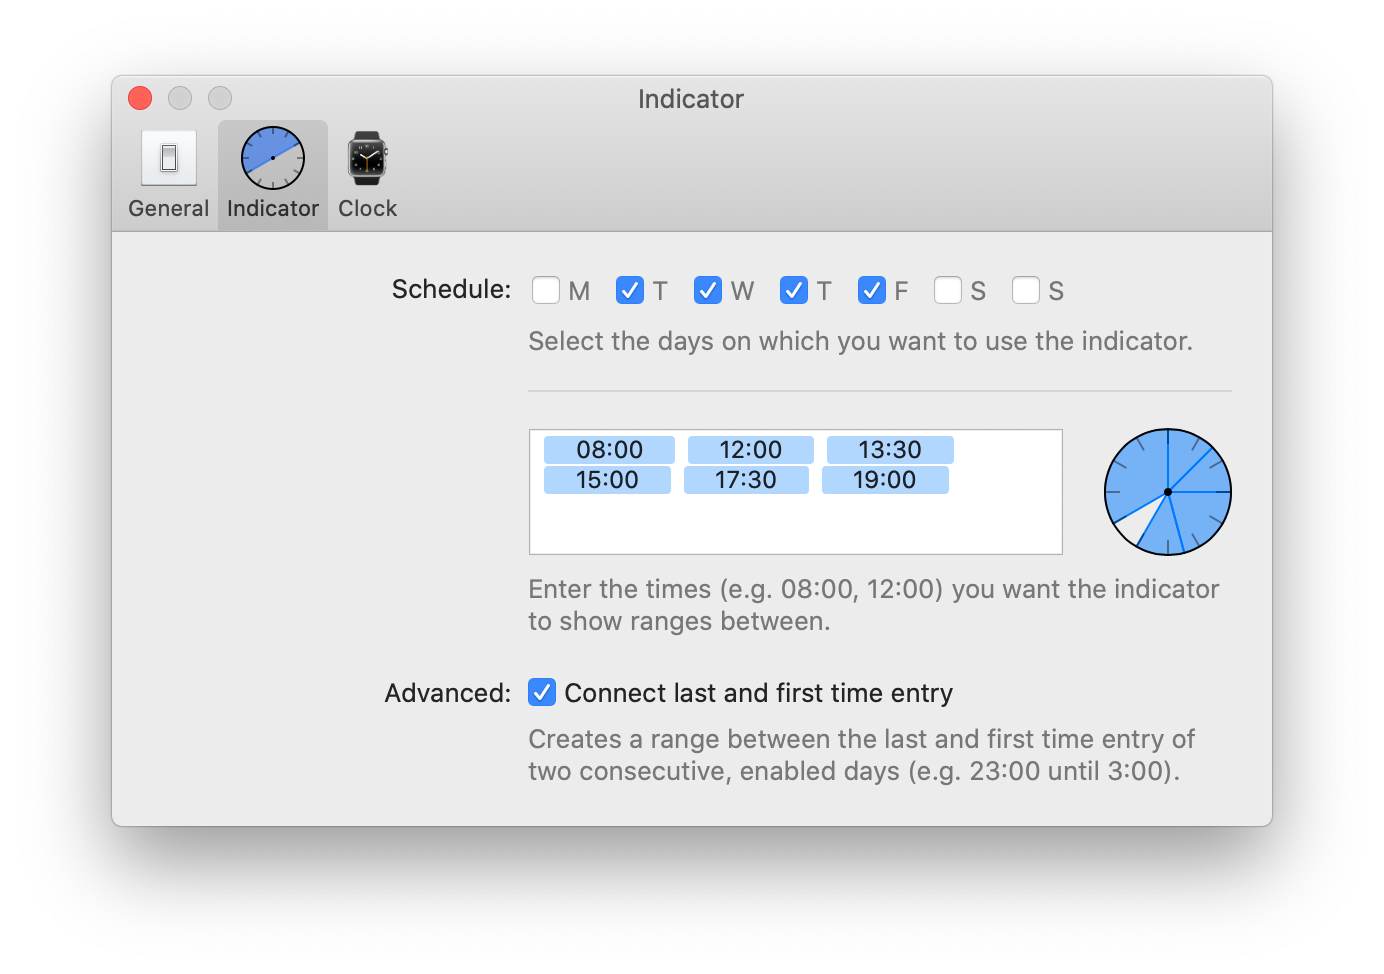
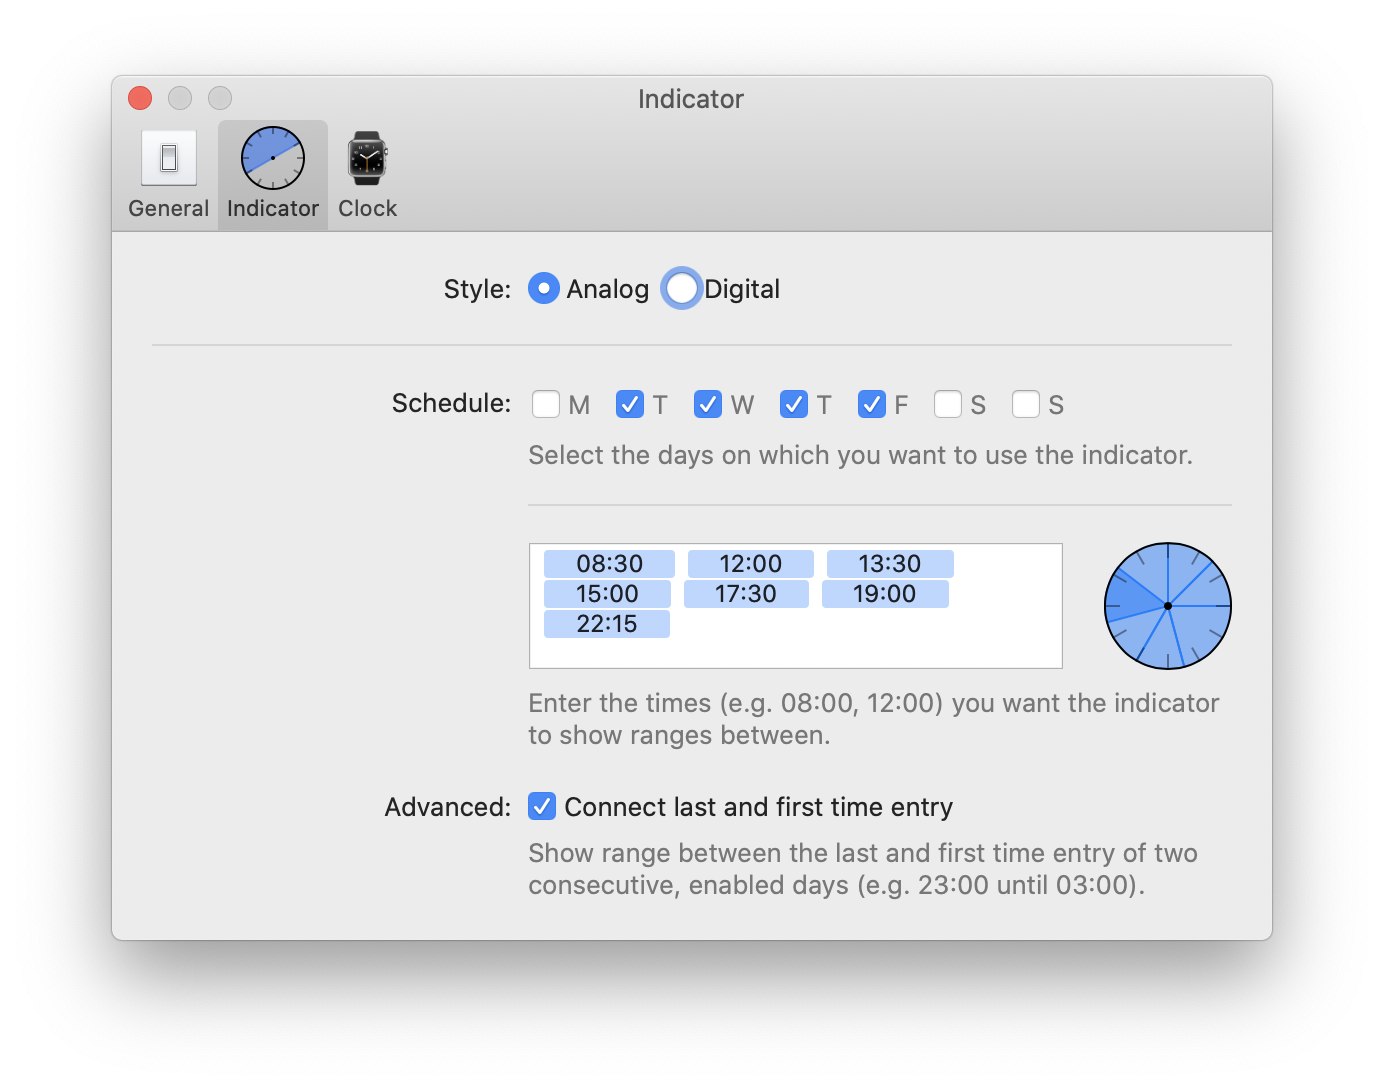
Add Timeless v2020.7 changes

diff --git a/timeless.html b/timeless.html
@@ -19,6 +19,7 @@ features:
   - Has a built-in scheduler.
   - Shows a clock when the indicator is inactive.
   - Display the time and date with a single click.
+  - Optional digital variant.
 tags:
   - macOS
   - Productivity
@@ -88,6 +89,10 @@ setapp:
         <figure class="box">
           <img src="/assets/img/app/timeless-status-item-indicator@2x.jpg" alt="A screenshot of the timeless indicator in the menu bar showing a range between 8 am and 12 pm" style="width: 800px;">
           <figcaption>Show a time <em>range</em> instead of the actual minute.</figcaption>
+        </figure>
+        <figure class="box">
+          <img src="/assets/img/app/timeless-status-item-digital@2x.jpg" alt="A screenshot of the digital timeless indicator in the menu bar showing a range between 5:30 am and 7 pm" style="width: 800px;">
+          <figcaption>Includes an optional <em>digital</em> variant.</figcaption>
         </figure>
       </div>
       <div class="column is-offset-1 is-6">
@@ -221,6 +226,11 @@ setapp:
               </tr>
               <tr>
                 <td class="features-table__cell table-cell table-cell--title"><p>Connect last and first time entries<br><small>on consecutive, enabled days.</small></p></td>
+                <td class="features-table__cell table-cell table-cell--cross">⨯</td>
+                <td class="features-table__cell table-cell table-cell--check">✓</td>
+              </tr>
+              <tr>
+                <td class="features-table__cell table-cell table-cell--title"><p>Access to the digital variant.</p></td>
                 <td class="features-table__cell table-cell table-cell--cross">⨯</td>
                 <td class="features-table__cell table-cell table-cell--check">✓</td>
               </tr>
